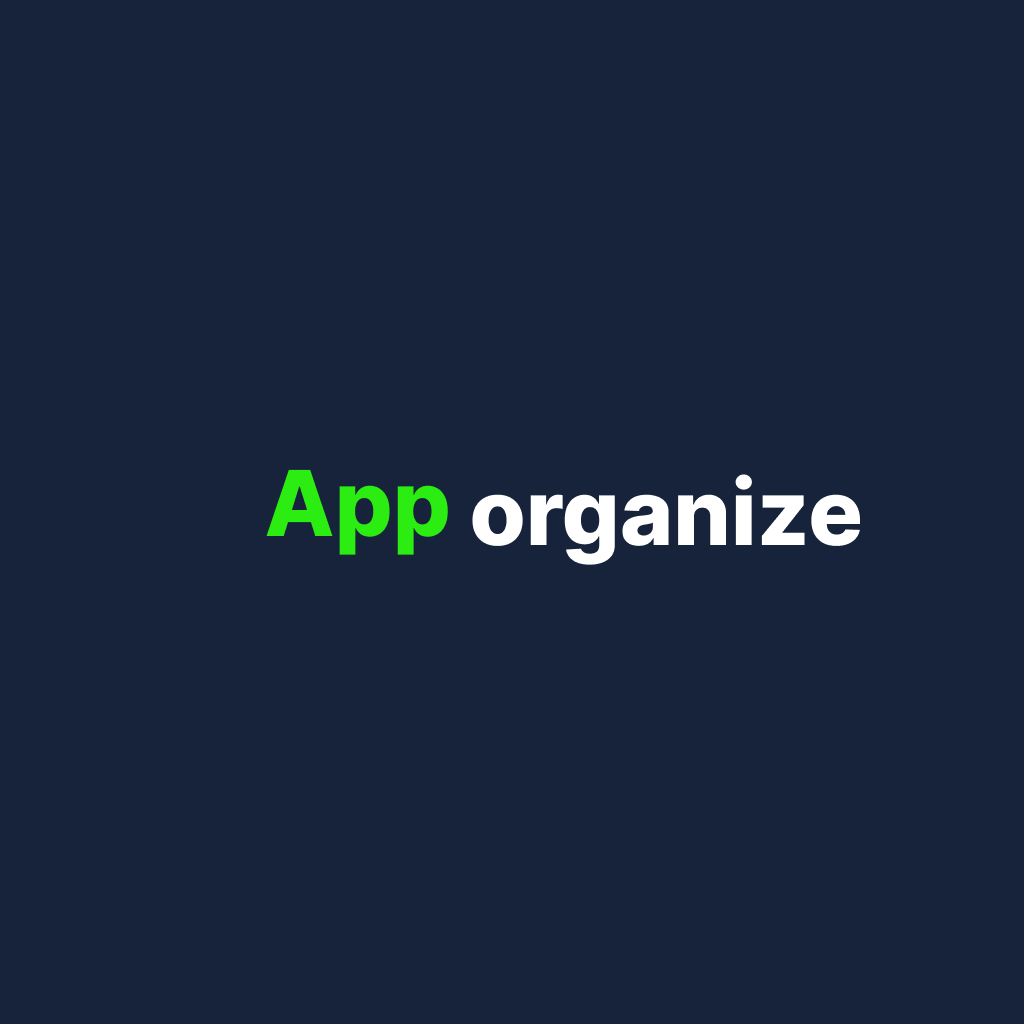
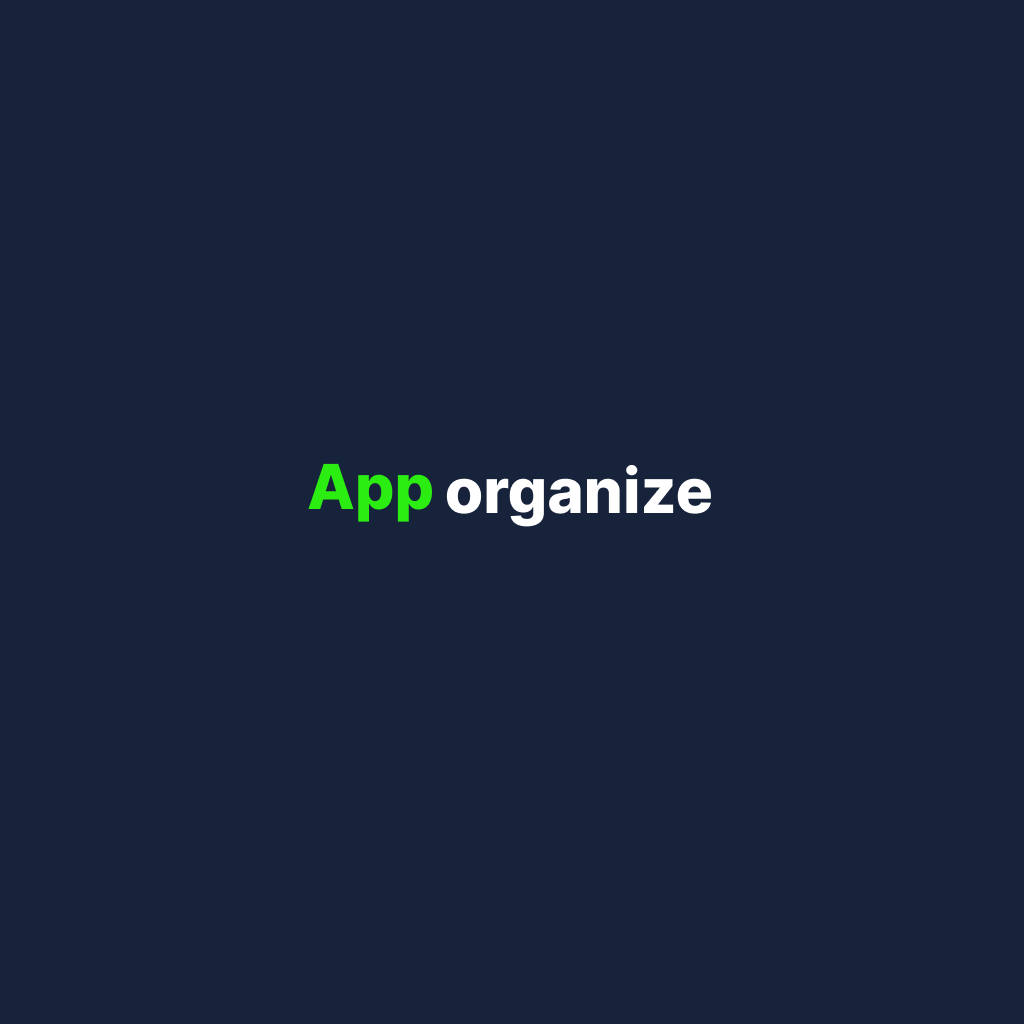
Atualiza documentação do README, adiciona novas funcionalidades e estrutura do projeto; melhora validação de cadastro e login; exibe informações do usuário no perfil; ajusta cores e placeholders nos campos de entrada.

Changed region(s): [[0.25, 0.4375, 0.8438, 0.5625]]

diff --git a/src/app/(auth)/login/page.tsx b/src/app/(auth)/login/page.tsx
@@ -4,6 +4,7 @@ import React, { useState } from 'react';
 import{View,Text, StyleSheet, TextInput, Pressable,ScrollView,Alert} from 'react-native';
 import { Link} from 'expo-router';
 import { router } from 'expo-router';
+import { useAuth } from '../../../contexts/AuthContext';
 import { supabase } from '../../lib/supabase'; 
 
 
@@ -11,7 +12,28 @@ export default function Login(){
     const [email, setEmail] = useState(''); 
     const [password, setPassword] = useState('');
     const [loding, setLoading] = useState(false);
-       
+    const { setUser, user } = useAuth(); 
+    const [tarefas, setTarefas] = useState<Array<any>>([]);
+    
+    
+    
+    
+    async function carregarTarefas() {
+    if (!user) return;
+    setLoading(true);
+    const { data, error } = await supabase
+      .from('tarefas')
+      .select('*')
+      .eq('user_id', user.id)
+      .order('data_inicio', { ascending: true });
+
+    if (error) {
+      Alert.alert('Erro ao carregar tarefas', error.message);
+    } else {
+      setTarefas(data || []);
+    }
+    setLoading(false);
+  }
     
 async function Entrar() {
      setLoading(true);
@@ -23,14 +45,16 @@ async function Entrar() {
 
   setLoading(false);
 
+
   if (error) {
-    Alert.alert('Erro ao entrar', error.message);
+    Alert.alert('Erro ao entrar', "verifique suas credenciais");
     return;
   }
 
   if (data.user) {
-    
+    setUser(data.user); 
     router.replace('/(painel)/perfil/page');
+    carregarTarefas();
     setLoading(false);
   }
 }
@@ -40,14 +64,15 @@ async function Entrar() {
     return(
         <View style={styles.container}> 
            <View style={styles.header}>
-            <Text style = {styles.logo}>App<Text style = {{color:colors.white}}>Organize</Text></Text>
+            <Text style = {styles.logo}>App<Text style = {{color:colors.white}}> organize</Text></Text>
             <Text style = {styles.slogan}>Organize seu dia com o melhor App </Text>
         </View>
      
         <View style = {styles.form}>
 
              <Text style={styles.label}>email:</Text>
-             <TextInput placeholder='Digite seu e-mail' style = {styles.input}
+             <TextInput placeholder='Digite seu e-mail' placeholderTextColor={colors.grayStrong}
+              style = {styles.input}
                 value={email}
                 onChangeText={setEmail}
                 keyboardType='email-address' 
@@ -56,7 +81,7 @@ async function Entrar() {
 
 
              <Text style ={styles.label}>senha:</Text>
-             <TextInput placeholder='Digite sua senha' 
+             <TextInput placeholder='Digite sua senha' placeholderTextColor={colors.grayStrong}
              style = {styles.input}
                 value={password}
                 onChangeText={setPassword}
@@ -124,6 +149,8 @@ const styles = StyleSheet.create({
         paddingLeft: 10,
         marginBottom: 20,
         padding : 10,
+        color: colors.black,
+        fontSize: 18,
     },
     button: {
         backgroundColor: colors.green,

diff --git a/src/app/(auth)/cadastro/page.tsx b/src/app/(auth)/cadastro/page.tsx
@@ -30,12 +30,20 @@ export default function Cadastrar(){
       }
     }
   });
-
+  if(name.length === 0 || email.length === 0 || password.length === 0){
+    setLoading(false);
+    Alert.alert('Erro ao cadastrar', "Preencha todos os campos.")
+    return;
+  }
+else if (password.length >0 && password.length <6){
+    setLoading(false);
+    Alert.alert('Erro ao cadastrar', "A senha deve ter no mínimo 6 caracteres.");
+    return;
+  }
   
-
   if (error) {
     setLoading(false);
-    Alert.alert('Erro ao cadastrar', error.message);
+    Alert.alert('Erro ao cadastrar', "Verifique suas credenciais e tente novamente.");
     return;
   }
 
@@ -55,28 +63,28 @@ export default function Cadastrar(){
        <Pressable onPress={() => router.back()}>
       <Ionicons 
        name="arrow-back" 
-       size={24} 
+       size={30} 
       color={colors.white} 
-       style={{marginLeft: 14, marginTop: 44}} 
+       style={{marginLeft: 14, marginTop: 20, paddingBottom:15}} 
   />
 </Pressable>
 
            <View style={styles.header}>
-            <Text style = {styles.logo}>App<Text style = {{color:colors.white}}>Organize</Text></Text>
+            <Text style = {styles.logo}>App<Text style = {{color:colors.white}}> organize</Text></Text>
             <Text style = {styles.slogan}>Crie sua conta</Text>
         </View>
         
         <View style = {styles.form}>
                    
              <Text style={styles.label}>Nome completo:</Text>
-             <TextInput placeholder='Digite seu nome completo'
+             <TextInput placeholder='Digite seu nome completo' placeholderTextColor={colors.grayStrong}
               style = {styles.input}
                 value={name}
                 onChangeText={setName}
              ></TextInput>
 
              <Text style={styles.label}>email:</Text>
-             <TextInput placeholder='Digite seu e-mail'
+             <TextInput placeholder='Digite seu e-mail' placeholderTextColor={colors.grayStrong}
              style = {styles.input}
              value={email}
              onChangeText={setEmail}
@@ -86,7 +94,7 @@ export default function Cadastrar(){
 
 
              <Text style ={styles.label}>senha:</Text>
-             <TextInput placeholder='Digite sua senha' 
+             <TextInput placeholder='Digite sua senha' placeholderTextColor={colors.grayStrong}
              style = {styles.input}
              secureTextEntry={true}
              value={password}
@@ -159,6 +167,8 @@ const styles = StyleSheet.create({
         paddingLeft: 10,
         marginBottom: 20,
         padding : 10,
+        color: colors.black,
+        fontSize: 18,
     },
     button: {
         backgroundColor: colors.green,

diff --git a/src/app/(painel)/perfil/page.tsx b/src/app/(painel)/perfil/page.tsx
@@ -56,6 +56,8 @@ export default function Perfil() {
 
   const [tarefas, setTarefas] = useState<Array<any>>([]);
   const [loading, setLoading] = useState(false);
+  const [nomeUsuario, setNomeUsuario] = useState(user?.user_metadata.name || 'Usuário');
+  const [emailUsuario, setEmailUsuario] = useState(user?.email || 'email não disponível');
 
   async function EncerrarSessao() {
     setMenuVisible(false);
@@ -144,7 +146,8 @@ export default function Perfil() {
   }
 
   async function marcarComoConcluida(id: number) {
-    const dataConclusao = new Date().toISOString().split('T')[0];
+    const dataConclusao = new Date().toISOString().split('T')[0];// Formato YYYY-MM-DD
+    
     const { error } = await supabase
       .from('tarefas')
       .update({ status: 'concluido', data_conclusao: dataConclusao })
@@ -223,7 +226,7 @@ export default function Perfil() {
           <Ionicons name="person-outline" size={24} color={colors.white} /> Perfil
         </Text>
       </TouchableOpacity>
-
+    
       <Modal transparent visible={menuVisible} animationType="fade">
         <TouchableOpacity
           style={styles.modalOverlay}
@@ -231,6 +234,11 @@ export default function Perfil() {
           activeOpacity={1}
         >
           <View style={styles.dropdownMenu}>
+            <TouchableOpacity style={styles.menuItem}>
+              <Text style={styles. menuDadosUsuario}>Nome: {nomeUsuario}</Text>
+              <Text style={styles.menuDadosUsuario}>Email: {emailUsuario}</Text>
+              <View style={{height:1, backgroundColor:colors.grayStrong, marginVertical:8,}}></View>
+            </TouchableOpacity>
             <TouchableOpacity onPress={EncerrarSessao} style={styles.menuItem}>
               <Text style={styles.menuTexto}>Encerrar Sessão</Text>
             </TouchableOpacity>
@@ -340,6 +348,7 @@ const styles = StyleSheet.create({
   },
   menuItem: { paddingVertical: 10 },
   menuTexto: { fontSize: 16, color: colors.blue },
+   menuDadosUsuario: { fontSize: 10, color: colors.blue,fontWeight:'bold' },
   tarefasContainer: { marginTop: 20, width: '100%', paddingHorizontal: 10 },
   tarefasTitulo: { fontSize: 18, fontWeight: 'bold', marginBottom: 10 },
   tarefaItem: {

diff --git a/src/app/index.tsx b/src/app/index.tsx
@@ -30,7 +30,7 @@ export default function IndexScreen() {
 
   return (
     <View style={styles.container}>
-   <Text style = {styles.logo}>App<Text style = {{color:colors.white}}>Organize</Text></Text>
+   <Text style = {styles.logo}>App<Text style = {{color:colors.white}}> organize</Text></Text>
 
     </View>
   );

diff --git a/src/constants/Colors.ts b/src/constants/Colors.ts
@@ -3,4 +3,6 @@ export default{
   green:'#2CED12',
   white:'#FFFFFF',
   gray :'#F0F0F0',
+  black:'#000000',
+  grayStrong :'#6b6666ff',
 }

diff --git a/Readme.md b/Readme.md
@@ -2,13 +2,71 @@
 
 Aplicativo para organizar tarefas, compromissos e informações pessoais de forma simples e eficiente.
 
+
 ## Funcionalidades
 
-- Cadastro de tarefas
-- Organização por categorias
-- Marcação de tarefas concluídas
-- Interface intuitiva
+- Cadastro e autenticação de usuários (login/cadastro)
+- Criação, edição, exclusão e marcação de tarefas como concluídas
+- Organização das tarefas por usuário
+- Interface intuitiva e responsiva
+- Persistência de dados via Supabase
+- Navegação protegida por autenticação
+- Visualização de perfil do usuário
+- Integração com site do desenvolvedor
+
+## Estrutura do Projeto
+
+O projeto é dividido em pastas e arquivos que organizam suas funcionalidades principais:
+
+```
+organizarApp/
+├── src/
+│   ├── components/        # Componentes reutilizáveis da interface
+│   ├── pages/             # Páginas do aplicativo
+│   ├── services/          # Serviços para comunicação com a API e Supabase
+│   ├── App.js             # Componente principal do aplicativo
+│   └── index.js          # Ponto de entrada do aplicativo
+├── .env                   # Variáveis de ambiente
+├── .gitignore             # Ignorar arquivos e pastas no Git
+├── package.json           # Dependências e scripts do projeto
+└── README.md              # Documentação do projeto
+```
+
+## Figma do Projeto
+
+[Figma do Projeto](https://www.figma.com/design/K8x40hmtEorNVGOAwWMvfe/organizadorApp?m=auto&t=tq4uUhrHgO8Hmfmc-1)
 
 ## Instalação
 
 1. Clone o repositório: https://github.com/felipesansi/organizarApp.git
+2. Navegue até a pasta do projeto: `cd organizarApp`
+3. Instale as dependências: `npm install`
+4. Crie um arquivo `.env` na raiz do projeto com as variáveis de ambiente necessárias (veja `.env.example`)
+5. Inicie o servidor de desenvolvimento: `npm run dev`
+6. Acesse o aplicativo no navegador: `http://localhost:3000`
+
+## Uso
+
+- Ao abrir o aplicativo, você será recebido pela tela de login.
+- Caso não tenha uma conta, clique em "Cadastrar" e preencha as informações solicitadas.
+- Após o login, você será direcionado para a página principal, onde poderá ver suas tarefas.
+- Utilize os botões disponíveis para criar, editar ou excluir tarefas.
+- Marque as tarefas como concluídas quando terminar.
+- Acesse o seu perfil para visualizar e editar suas informações pessoais.
+- Para mais informações sobre o desenvolvedor, acesse a seção "Sobre".
+
+## Contribuição
+
+Contribuições são bem-vindas! Sinta-se à vontade para abrir issues ou pull requests.
+
+## Licença
+
+Este projeto está licenciado sob a Licença MIT - veja o arquivo [LICENSE](LICENSE) para detalhes.
+
+## Contato
+
+- Nome do desenvolvedor: Felipe Freitas dos Santos Silva
+- GitHub: [felipesansi](https://github.com/felipesansi)
+- LinkedIn: [felipesansi](https://www.linkedin.com/in/felipesansi/)
+- Portifolio: [Felipedev](https://portfolio-react-omega-rust.vercel.app/)
+
